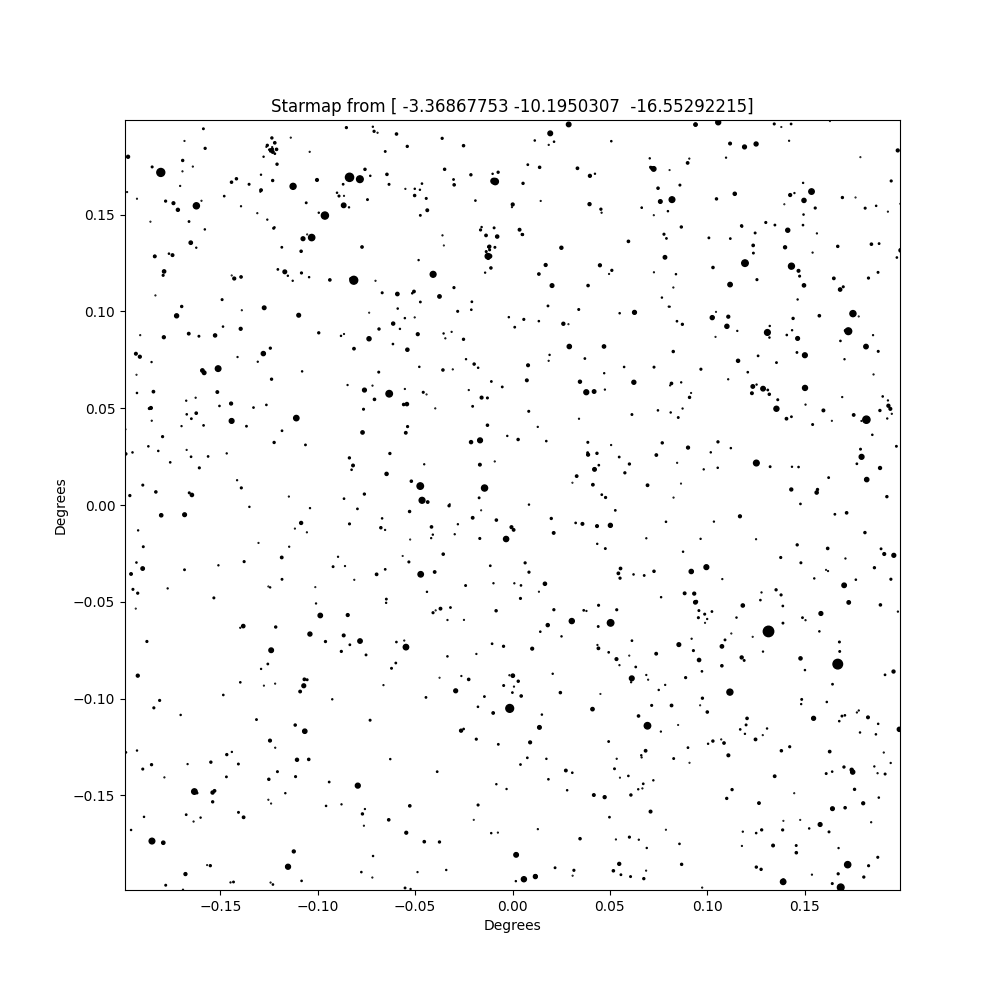
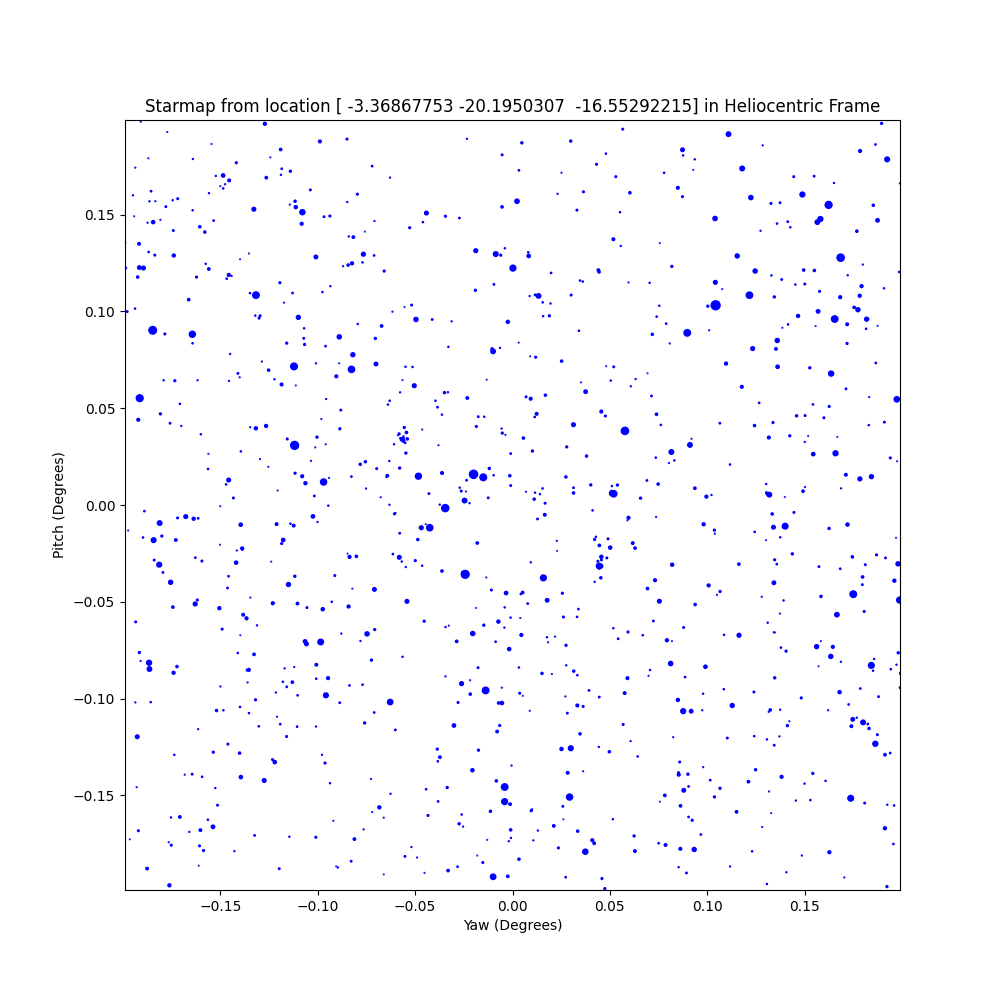
Altered starmap plot

diff --git a/attitude/starmap.py b/attitude/starmap.py
@@ -5,7 +5,8 @@ from skyfield.api import Star, load
 from skyfield.data import hipparcos
 
 
-location = np.array([-3.36867753, -10.1950307, -16.55292215])
+# Set the location of our satellite, in heliocentric rectangular coordinates
+location = np.array([-3.36867753, -20.1950307, -16.55292215])
 
 
 def build_stereographic_projection(location):
@@ -83,14 +84,14 @@ marker_size = (0.5 + limiting_magnitude - magnitude) ** 2.0
 fig, ax = plt.subplots(figsize=[10, 10])
 
 ax.scatter(stars['x'][bright_stars], stars['y'][bright_stars],
-           s=marker_size, color='k')
+           s=marker_size, color='b')
 
 angle = np.pi - field_of_view_degrees / 360.0 * np.pi
 limit = np.sin(angle) / (1.0 - np.cos(angle))
 
 ax.set_xlim(-limit, limit)
 ax.set_ylim(-limit, limit)
-ax.set_xlabel('Degrees')
-ax.set_ylabel('Degrees')
-ax.set_title('Starmap from {}'.format(location))
+ax.set_xlabel('Yaw (Degrees)')
+ax.set_ylabel('Pitch (Degrees)')
+ax.set_title('Starmap from location {} in Heliocentric Frame'.format(location))
 fig.savefig('starmap.png')
